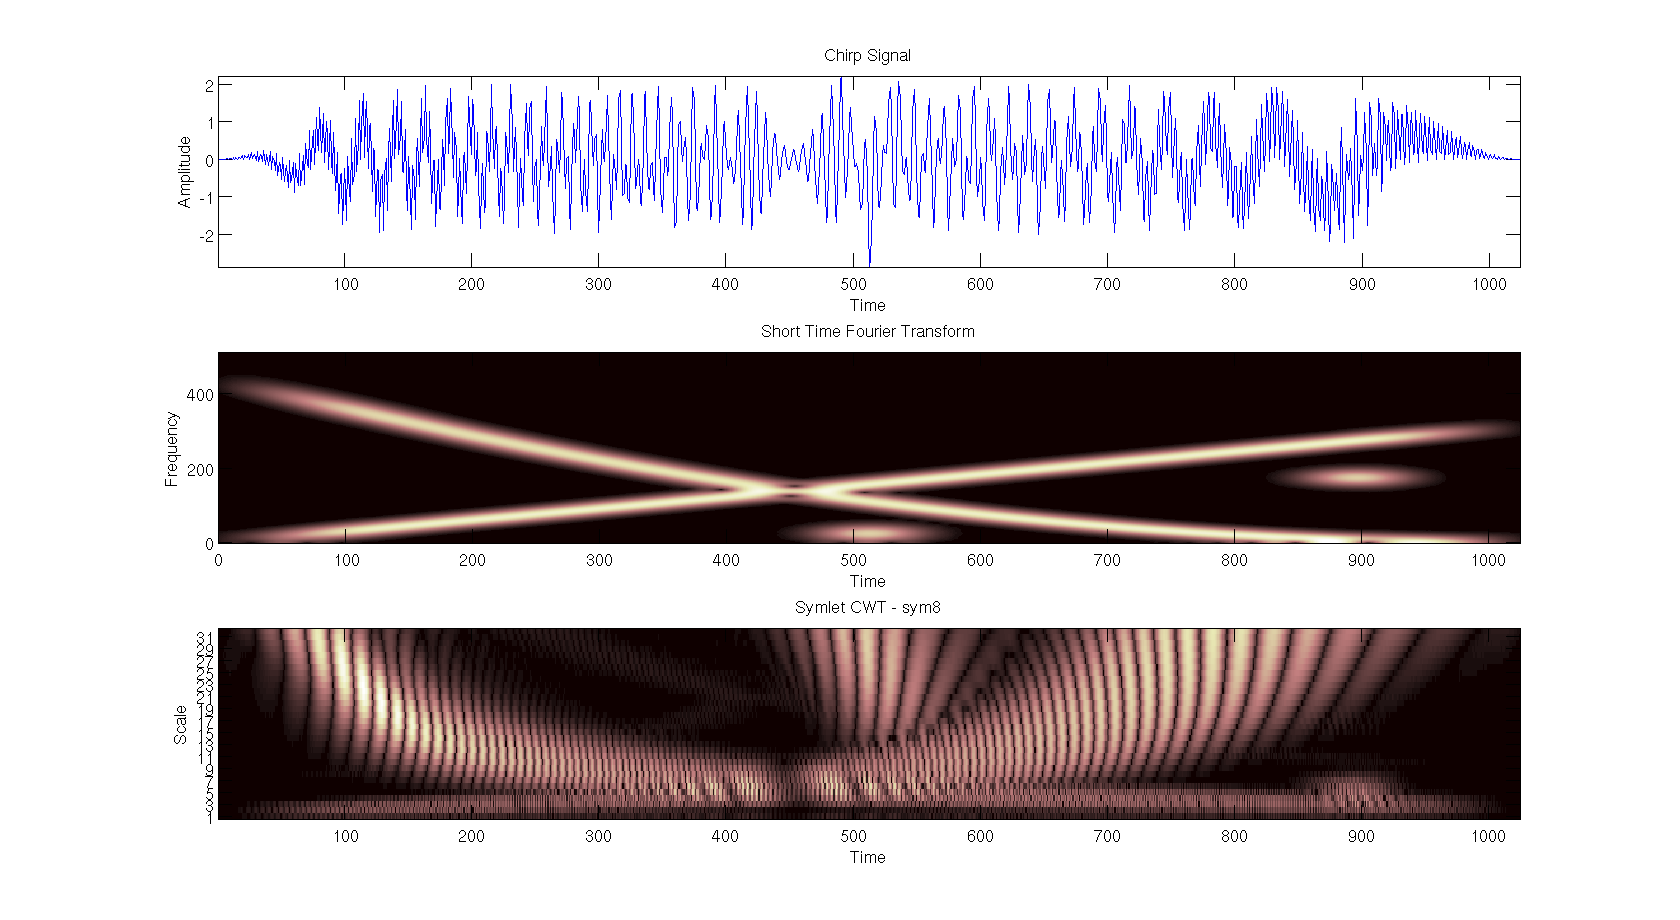
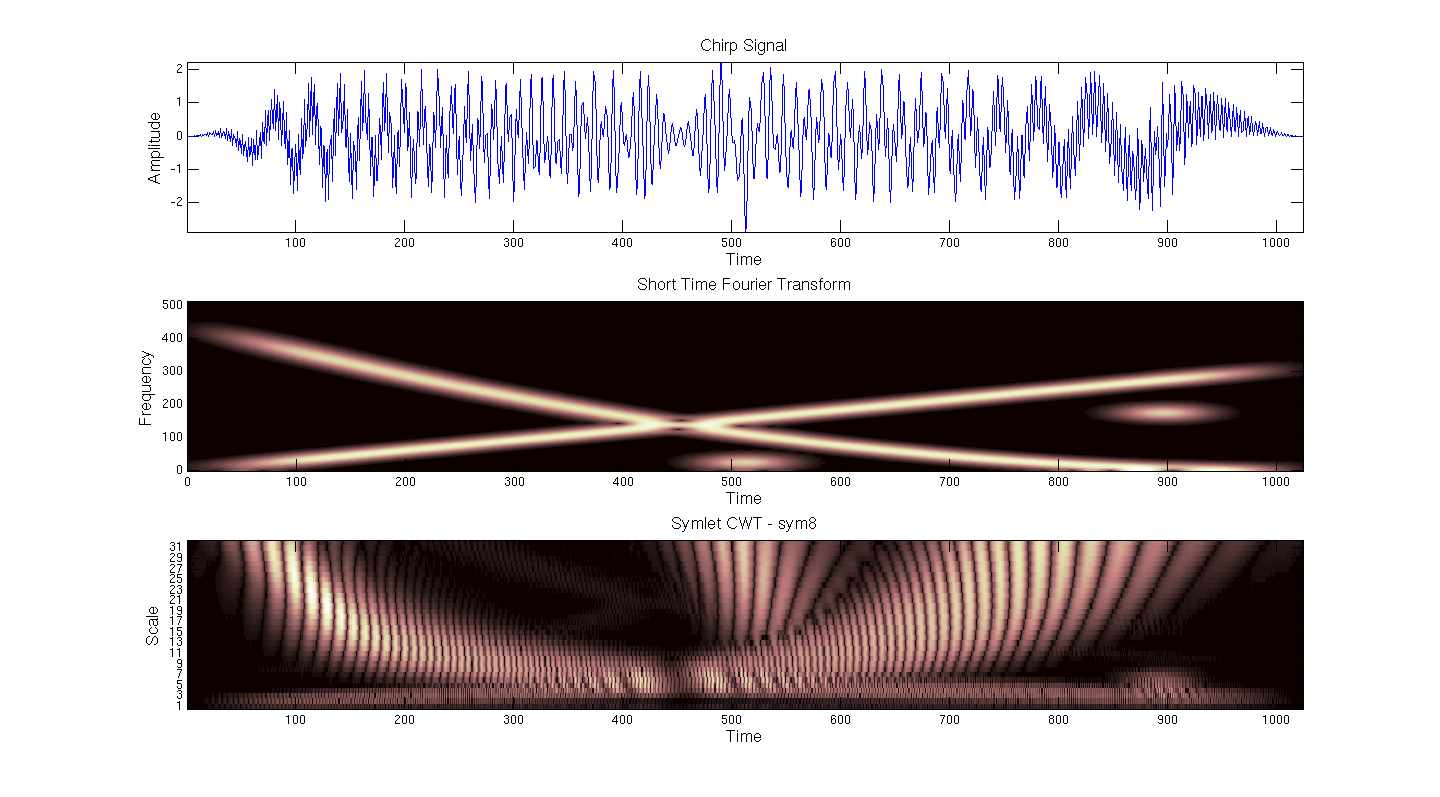
Cleanup text

diff --git a/problem3.m b/problem3.m
@@ -2,8 +2,6 @@ close all;
 global WLVERBOSE;
 WLVERBOSE='No';
 
-set(0, 'DefaultTextFontSize', 14)
-set(0, 'DefaultTextFontWeight', 'bold')
 %% Chirp Signal
 clear; clc; figure(1);
 
@@ -15,11 +13,11 @@ x = 1:N;
 % Plot Signal -------------------------------------------------------------
 subplot(3, 1, 1), plot(x, f);
 axis tight;
-title('Chirp Signal'),xlabel('Time'), ylabel('Amplitude')
+title('Chirp Signal', 'FontSize', 14),xlabel('Time', 'FontSize', 14), ylabel('Amplitude', 'FontSize', 14)
 
 % Plot STFT ---------------------------------------------------------------
 subplot(3, 1, 2), WindowFT(f,50,1,'Gaussian');
-title('Short Time Fourier Transform'),xlabel('Time'), ylabel('Frequency')
+title('Short Time Fourier Transform', 'FontSize', 14),xlabel('Time', 'FontSize', 14), ylabel('Frequency', 'FontSize', 14)
 
 % Plot CWT ----------------------------------------------------------------
 subplot(3, 1, 3), cwt(f,1:32,'db8','plot'); 
